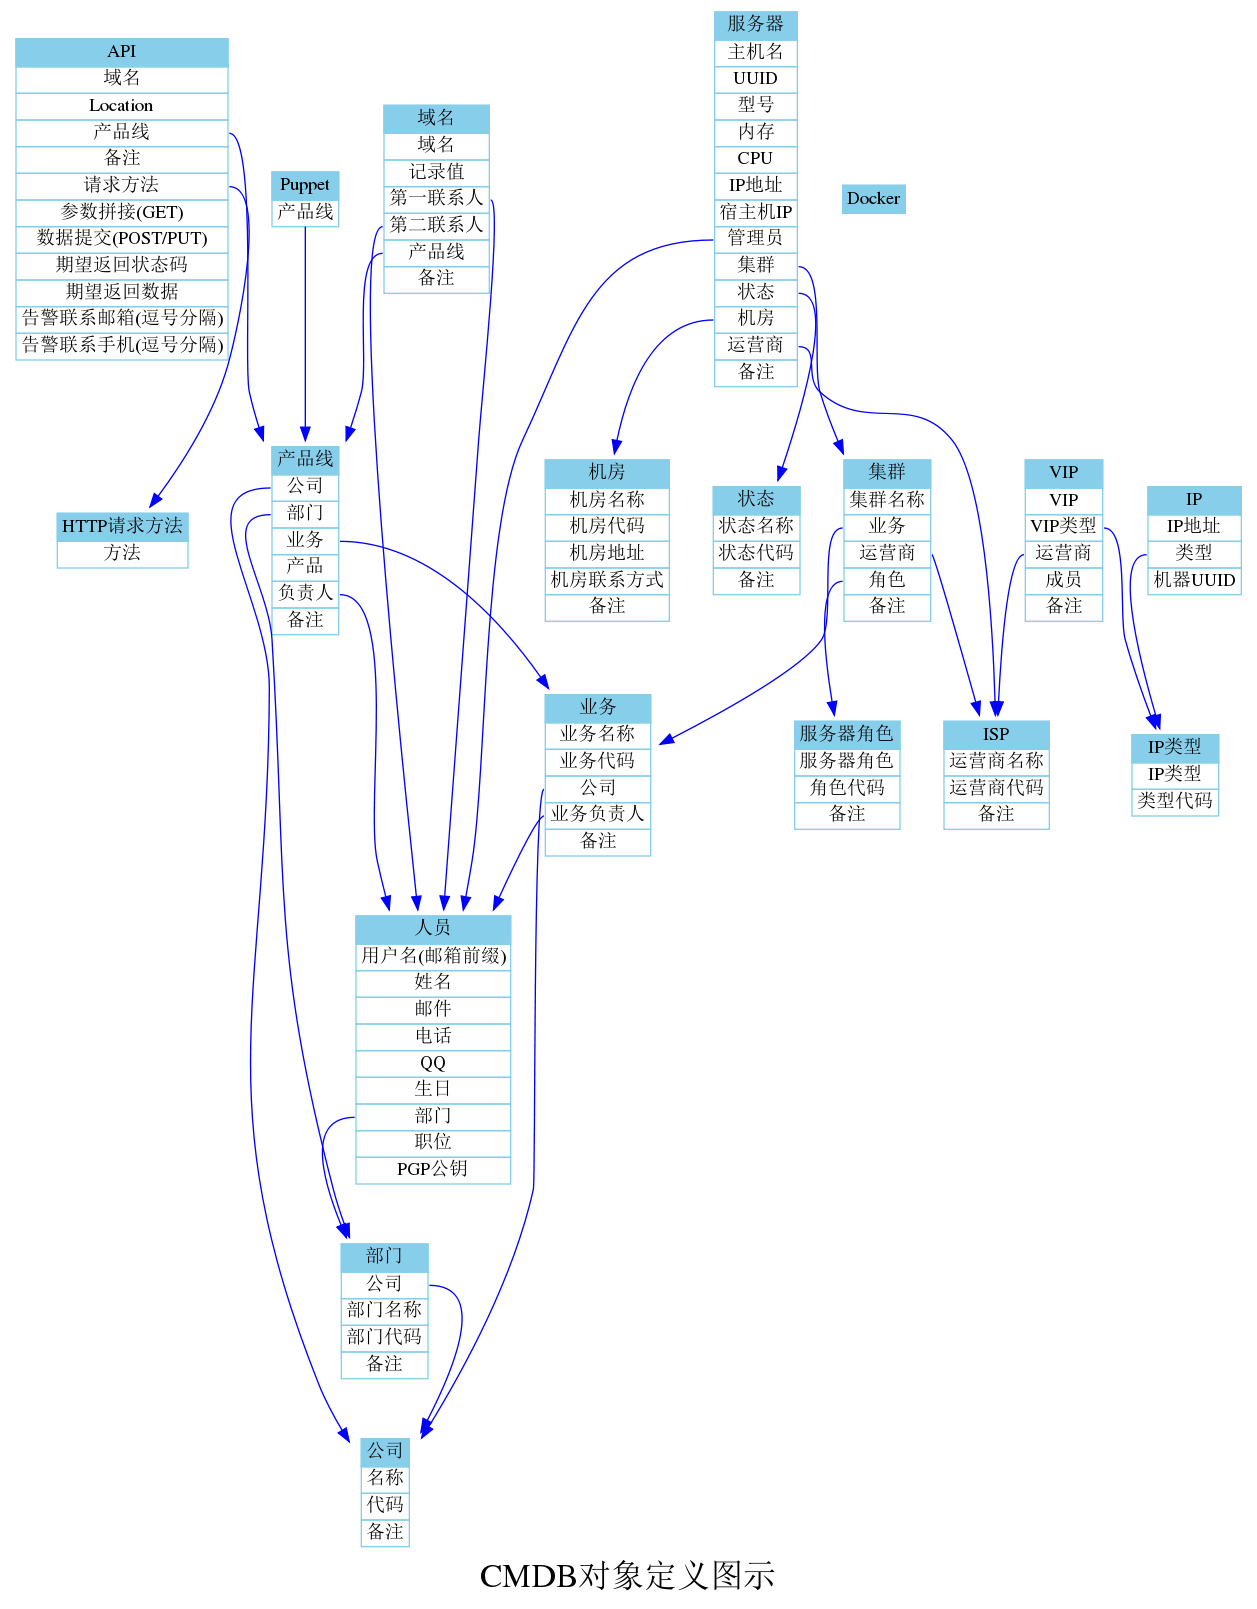
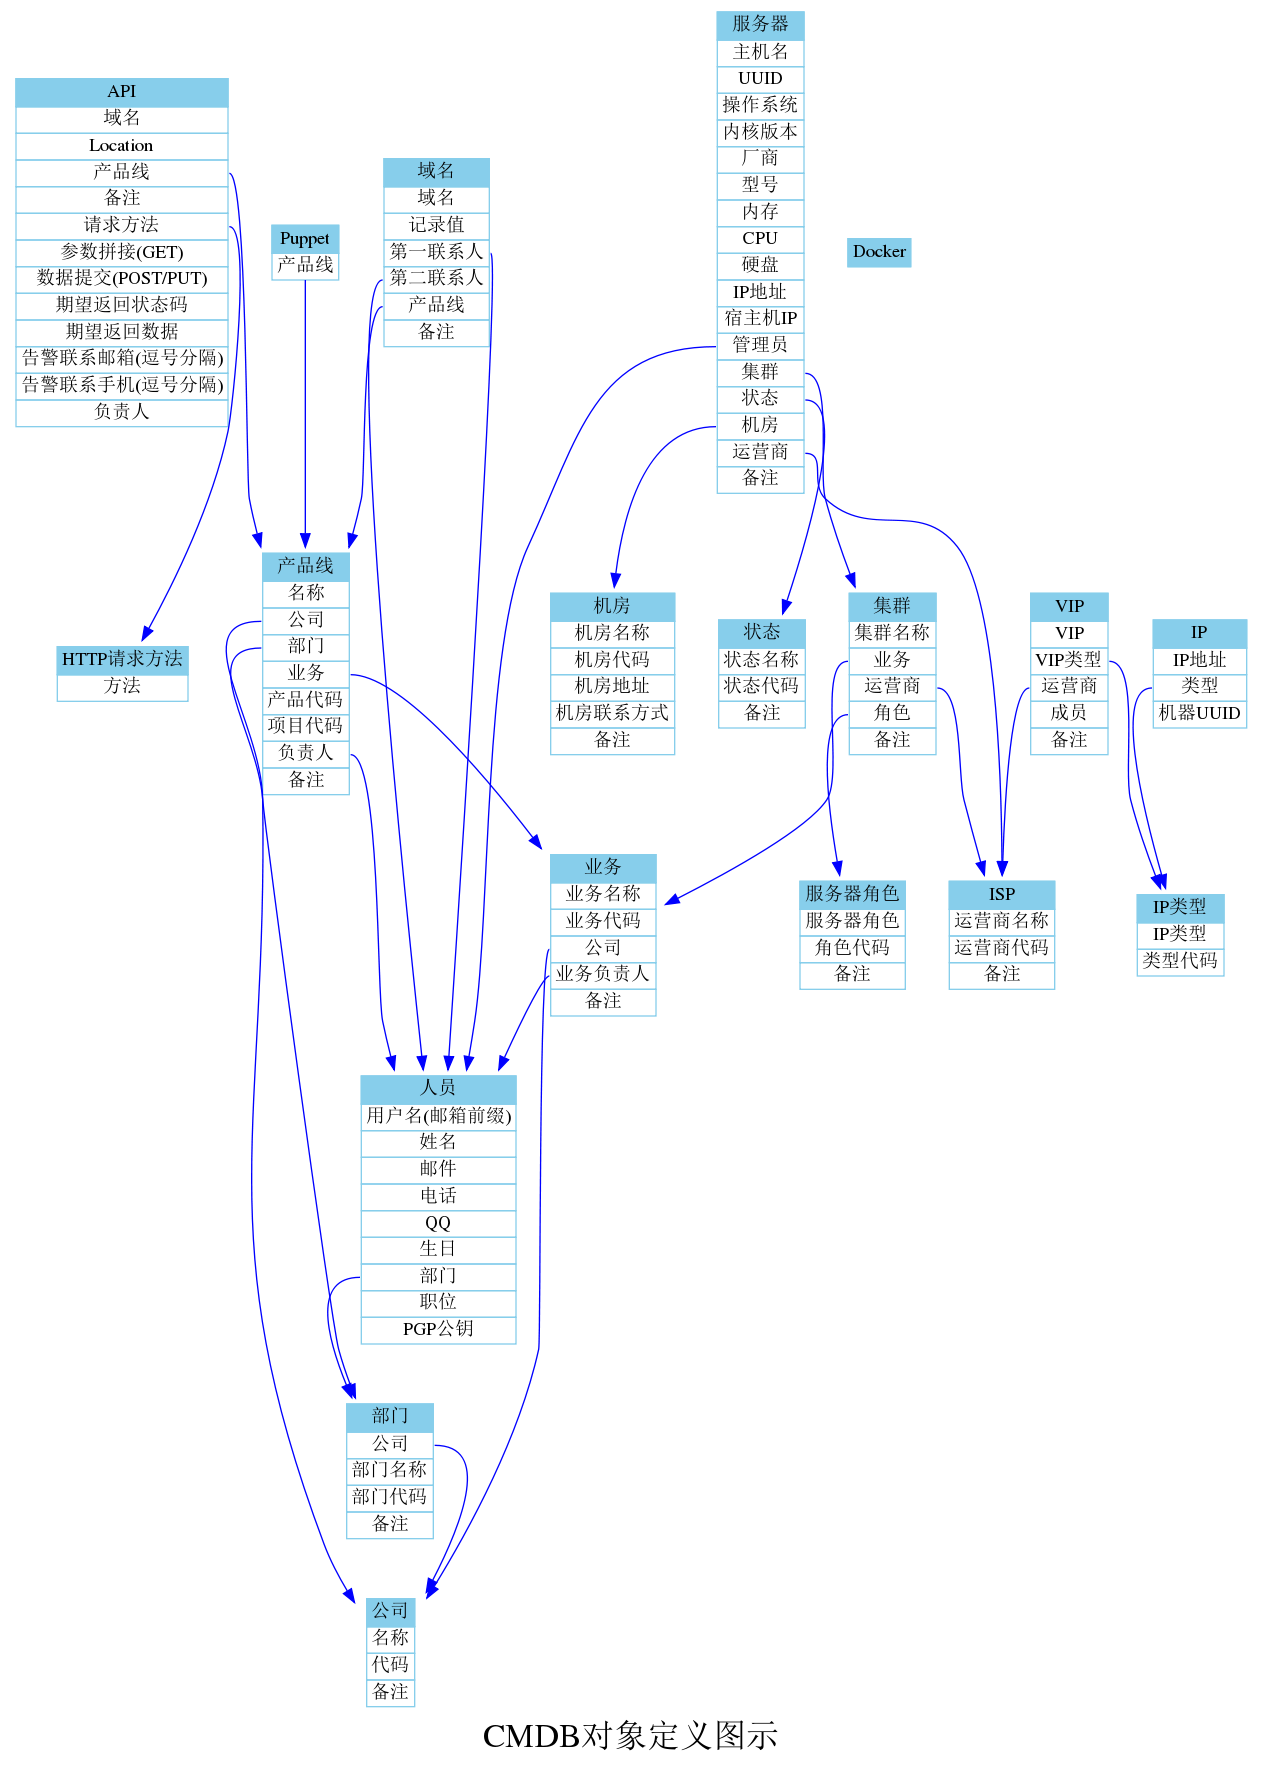
ansible gather facts, cmdb ci define

diff --git a/cmdb/yourcmdb/facts/facts.py b/cmdb/yourcmdb/facts/facts.py
@@ -35,7 +35,7 @@ def isVip(ip, facts):
 	delifs=["eth0", "eth1", "eth2", "eth3", "eth4", "docker0"]
 	ifs = facts[INTERFACES]
 
-	regex = re.compile(r'eth.*|docker.*|veth.*')
+	regex = re.compile(r'eth.*|docker.*|veth.*|bond.*')
 	tmp = copy.deepcopy(ifs)
 	for i in ifs:
 		if re.search(regex, i):
@@ -80,10 +80,22 @@ def dealFacts(ip, data):
 	MODEL="ansible_product_name"
 	VENDOR="ansible_system_vendor"
 	HOSTNAME="ansible_nodename"
+	SYSTEM="ansible_distribution"
+	VERSION="ansible_distribution_version"
+	ARCHITECTURE="ansible_architecture"
+	KERNEL="ansible_kernel"
+	VCPUS="ansible_processor_vcpus"
+	CORES="ansible_processor_cores"
+	THREADS="ansible_processor_threads_per_core"
+	DEVICES="ansible_devices"
+
 
 	ret['uuid'] = facts[UUID]
 	ret['ip'] = []
 	ret['vip'] = []
+	ret['system'] = facts[SYSTEM] + "-" + facts[VERSION] + "-" + facts[ARCHITECTURE]
+	ret['kernel'] = facts[KERNEL]
+	
 	tmpIp = facts[IPV4]
 	for i in tmpIp:
 		if isVip(i, facts):
@@ -98,10 +110,16 @@ def dealFacts(ip, data):
 			continue
 		else:
 			ret['ip'].append({"ip":i,"type":"ext", "uuid":ret['uuid']})
-	ret['cpu'] = str(facts[PROCESSOR_COUNT]) + "x " + facts[PROCESSOR_MODEL][1]
-	ret['mem'] = str(facts[MEM]) + " MB"
+	ret['cpu'] = str(facts[PROCESSOR_COUNT]) + "x" +str(facts[CORES]) + "x" + str(facts[THREADS]) + " "  + facts[PROCESSOR_MODEL][1]
+	ret['mem'] = str(int((facts[MEM]+1024-1)/1024)) + " GB"
 	ret['model'] = facts[MODEL]
+	ret['vendor'] = facts[VENDOR]
 	ret['hostname'] = facts[HOSTNAME]
+
+	ret['devices'] =""
+	for k,v in facts[DEVICES].items():
+		item = k + ":" + v['size'] + "#"
+		ret['devices'] += item
 	
 	ipshows=""
 	with open("ip.csv", "a+") as f:
@@ -115,7 +133,7 @@ def dealFacts(ip, data):
 			f.write(";;" + vip['ip'] + ";" + vip['type'] + ";" + vip['isp'] + ";" + ipshows + ";\n")
 
 	with open("server.csv", "a+") as f:
-		f.write(";;" + ret['hostname'] + ";" + ipshows + ";;" + ret['uuid'] + ";" + ret['model'] + ";" + ret['mem'] + ";" + ret['cpu'] + ";;;;;;\n")  
+		f.write(";;" + ret['hostname'] + ";" + ipshows + ";;" + ret['uuid'] + ";" + ret['vendor'] + ";" + ret['model'] + ";" + ret['system'] + ";" + ret['kernel'] + ";" + ret['mem'] + ";" + ret['cpu'] + ";" + ret['devices'] + ";" + ";;;;;;\n")  
 
 	print(ret)
 	print("\n")
